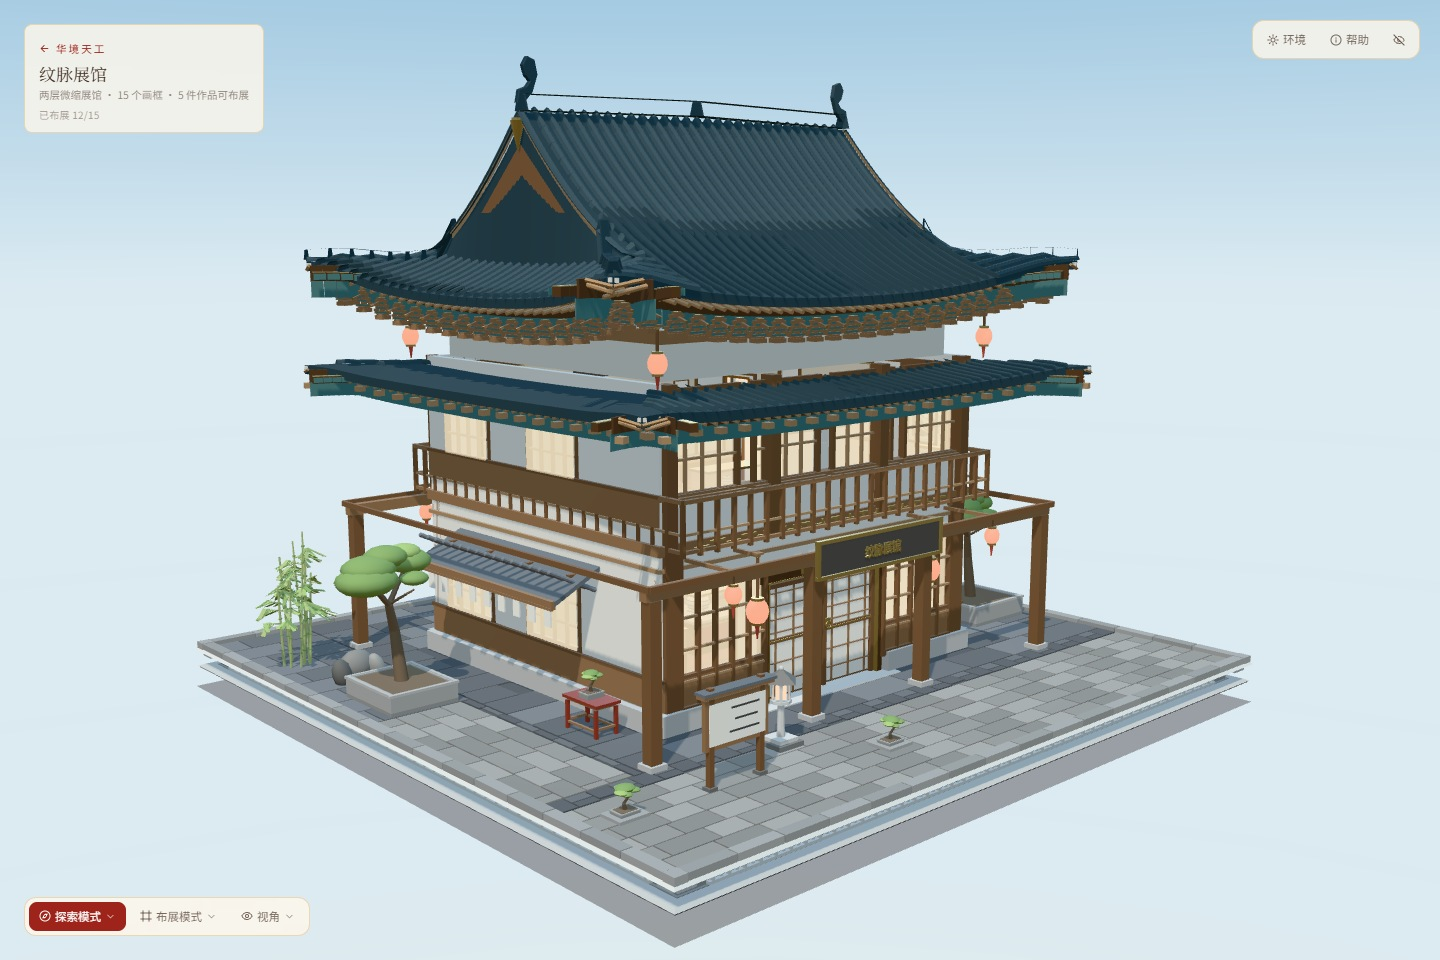
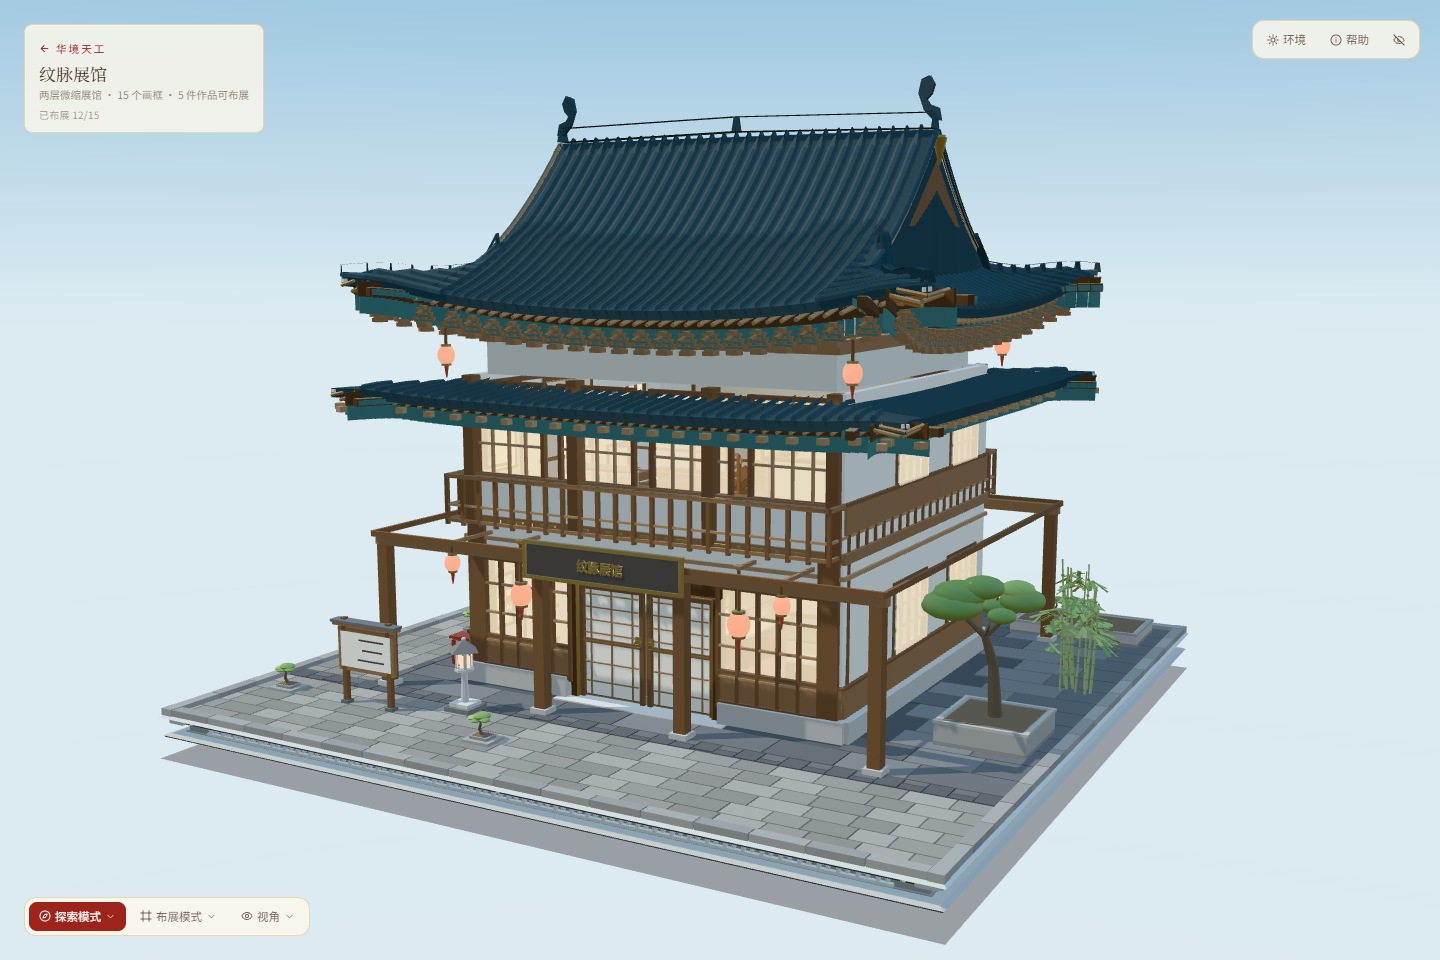
Use front-right views for gallery previews

Changed region(s): [[0.0938, 0.0625, 0.875, 1.0]]

diff --git a/docs/screenshots/current/README.md b/docs/screenshots/current/README.md
@@ -11,7 +11,7 @@
 | 截图文件 | 对应路由 / 页面模块 | 实际像素 | 界面功能与视觉设计说明 |
 |---|---|---|---|
 | [home-overview.jpg](home-overview.jpg) | `/`（首页首屏） | 1440×1000 | 华境天工主标题、项目副标题、五种传统视觉风格与创作入口。 |
-| [home-gallery.jpg](home-gallery.jpg) | `/`（首页展馆区块） | 1440×1000 | 玉质楼阁图标、v5 双层纹脉展馆的外观预览与漫游入口。 |
+| [home-gallery.jpg](home-gallery.jpg) | `/`（首页展馆区块） | 1440×1000 | 玉质楼阁图标、v5 双层纹脉展馆的右前方日景预览与漫游入口。 |
 | [culture-styles.jpg](culture-styles.jpg) | `/styles`（风格库） | 1440×1000 | **五大传统文化视觉风格库**：Refero 灵感画廊美学卡片，外露设色谱系圆点、门类签条筛选栏与一键创作入口。 |
 | [style-inspect-modal.jpg](style-inspect-modal.jpg) | `/styles`（风格考据弹窗） | 1440×1000 | **风格文化基因考据抽屉**：点击风格「考据」展开，解构设色哲学、构图法则、Qwen Image 结构化 Prompt 与文化源流象征。 |
 | [creation-workspace.jpg](creation-workspace.jpg) | `/creator`（智能生成） | 1440×1000 | 工作台载入已保存作品，展示生成主题、风格参数、成图和文化说明。 |
@@ -19,10 +19,10 @@
 | [gallery-archive-modal.jpg](gallery-archive-modal.jpg) | `/gallery`（作品归档机制） | 1440×1000 | **数字典藏与数据完整性机制弹窗**：点击金石印匣展开，真实展示 SHA-256 完整性摘要与 Case Store 本地持久化归档说明。 |
 | [creative-products.jpg](creative-products.jpg) | `/products`（文创工坊） | 1440×1000 | 明信片、帆布袋等八类文创载体预览，可导出 1600×1200 PNG。 |
 | [product-vessel-modal.jpg](product-vessel-modal.jpg) | `/products`（器物展陈弹窗） | 1440×1000 | **东方器物灵感 · 天青贯耳尊解构弹窗**：点击贯耳尊展开，详细解构器形制式、掐丝龙纹工艺与概念美学定位。 |
-| [scenarios.jpg](scenarios.jpg) | `/scenarios`（多维应用场景） | 1440×1000 | 空间展陈区默认展示数字环幕沉浸空间概念图，可切换至 v5 双层纹脉展馆的日景与黄昏实景预览。 |
+| [scenarios.jpg](scenarios.jpg) | `/scenarios`（多维应用场景） | 1440×1000 | 空间展陈区默认展示数字环幕沉浸空间概念图，可切换至 v5 双层纹脉展馆右前方视角的日景与黄昏实景预览。 |
 | [about.jpg](about.jpg) | `/about`（关于项目） | 1440×1000 | **技术架构与定位**：六大核心技术体系、真实多模态推理证据链、宣纸装裱文化卡展陈与古风印章落款。 |
 | [about-architecture.jpg](about-architecture.jpg) | `/about`（技术架构） | 1440×1000 | 前端交互、生成服务和本地模型的技术分层。 |
-| [about-gallery-capability.jpg](about-gallery-capability.jpg) | `/about`（展馆能力） | 1440×1000 | v5 双层展馆预览、15 处可换画画框与器物布展能力。 |
+| [about-gallery-capability.jpg](about-gallery-capability.jpg) | `/about`（展馆能力） | 1440×1000 | 展馆能力卡片切换至「建筑外景 · 双层重檐」，展示 v5 双层展馆的右前方日景与 15 处画框布展能力。 |
 | [mobile-home.jpg](mobile-home.jpg) | `/`（移动端 390×844 视口） | 780×1688 | 窄屏下的项目标题、导航菜单和创作入口。 |
 | [culture-card.jpg](culture-card.jpg) | `/gallery`（文化说明卡） | 1080×1440 | **纯净版 CultureCard 说明卡**：木版年画文化解读卡，涵盖版刻设色、矿物颜料谱系、工艺要点与古籍考证印章。 |
 | [interactive-artwork.jpg](interactive-artwork.jpg) | `/experience/zhuxianzhen-ruimao` | 1440×1000 | **画中有话 · 微观热点探索**：年画原作微观脉冲热点（额顶云冠、金鲤墨线、矿物设色），即时滑出文化解读面板。 |
@@ -31,8 +31,8 @@
 | [new-image-hotspots.jpg](new-image-hotspots.jpg) | 《蓝韵牡丹图》（画中有话） | 1440×1000 | 青花瓷纹样公开案例的画面热点与局部解读。 |
 | [new-image-story.jpg](new-image-story.jpg) | 《蓝韵牡丹图》（一图一境） | 1440×1000 | 同一件作品的图文叙事章节。 |
 | [new-image-world.jpg](new-image-world.jpg) | 《蓝韵牡丹图》（画境漫游） | 1440×1000 | 同一件作品的 2.5D 互动视图。 |
-| [heritage-gallery.jpg](heritage-gallery.jpg) | `/heritage-gallery`（展馆外观） | 1440×960 | 白天视角下的 v5 双层中式展馆。 |
-| [heritage-dusk.jpg](heritage-dusk.jpg) | `/heritage-gallery`（黄昏外观） | 1440×960 | 展馆切换到黄昏后的外观与照明。 |
+| [heritage-gallery.jpg](heritage-gallery.jpg) | `/heritage-gallery`（展馆外观） | 1440×960 | 从右前方观看 v5 双层中式展馆的日景，门匾位于画面左侧，右侧立面可见。 |
+| [heritage-dusk.jpg](heritage-dusk.jpg) | `/heritage-gallery`（黄昏外观） | 1440×960 | 同一右前方视角下的展馆外观与黄昏照明。 |
 | [heritage-night.jpg](heritage-night.jpg) | `/heritage-gallery`（夜晚外观） | 1440×960 | 夜景中的重檐和暖色窗灯。 |
 | [heritage-interior.jpg](heritage-interior.jpg) | `/heritage-gallery`（一层） | 1440×960 | 一层木构空间与楼梯。 |
 | [heritage-upper.jpg](heritage-upper.jpg) | `/heritage-gallery`（二层） | 1440×960 | 二层回廊与室内视角。 |

diff --git a/README.md b/README.md
@@ -74,9 +74,9 @@ flowchart LR
 
 | 双层纹脉展馆 | 换画与布展 |
 |:---:|:---:|
-| [![双层纹脉展馆外观](docs/screenshots/current/heritage-gallery.jpg)](docs/screenshots/current/heritage-gallery.jpg) | [![纹脉展馆布展模式与器物图库](docs/screenshots/current/heritage-diy.jpg)](docs/screenshots/current/heritage-diy.jpg) |
+| [![双层纹脉展馆右前方日景](docs/screenshots/current/heritage-gallery.jpg)](docs/screenshots/current/heritage-gallery.jpg) | [![纹脉展馆布展模式与器物图库](docs/screenshots/current/heritage-diy.jpg)](docs/screenshots/current/heritage-diy.jpg) |
 
-恢复五馆水院 v15 时，按顺序用 `git revert` 撤销标题为 `Restore gallery icon and default ring-screen preview` 的预览调整提交、`9e8b35d` 的导览图与文案同步提交、`1bc0284` 的国赛展馆切换提交。恢复基准为 `5268531`。[v15 集成与验收记录](docs/pavilion-v15-integration.md) · [恢复基准](https://github.com/3331083641-prog/wenmai-huazhang/commit/52685310061a5c5989e01cca9255b2a6e3b8d27d)
+恢复五馆水院 v15 时，按顺序用 `git revert` 撤销标题为 `Use front-right views for gallery previews` 的外观视角调整提交、`56059e5` 的图标与默认预览调整提交、`9e8b35d` 的导览图与文案同步提交、`1bc0284` 的国赛展馆切换提交。恢复基准为 `5268531`。[v15 集成与验收记录](docs/pavilion-v15-integration.md) · [恢复基准](https://github.com/3331083641-prog/wenmai-huazhang/commit/52685310061a5c5989e01cca9255b2a6e3b8d27d)
 
 ### 从作品到文创预览
 
